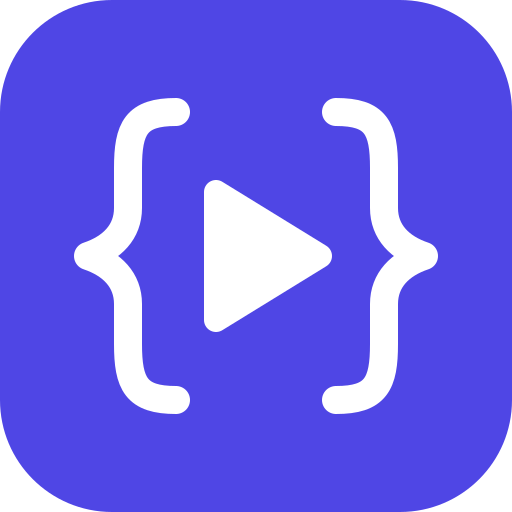
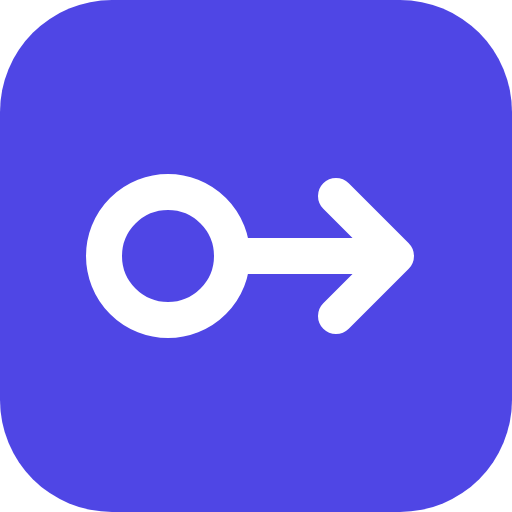
Nueva marca: Primer Commit
- El sitio pasa a llamarse Primer Commit, con el lema «Tu carrera tech
  empieza aquí». El nombre sale siempre de siteConfig.
- Nuevo logotipo: un nodo de commit del que solo sale una línea hacia
  delante (el primer commit no tiene nada detrás). Se regeneran el
  favicon, los iconos de la app y la imagen Open Graph.
- Títulos, descripciones, manifest y textos actualizados.
- La sesión se guarda como primercommit.session.

Claude-Session: https://claude.ai/code/session_01GvWBAHTqA9EsmEeJLtWEVq

Changed region(s): [[0.125, 0.1875, 0.875, 0.8125], [0.2188, 0.4688, 0.25, 0.5312]]

diff --git a/index.html b/index.html
@@ -4,13 +4,13 @@
     <meta charset="UTF-8" />
     <meta name="viewport" content="width=device-width, initial-scale=1.0" />
     <meta name="theme-color" content="#4f46e5" />
-    <title>StartDev | Comunidad tech para juniors</title>
-    <meta data-seo-default name="description" content="Noticias tech, ofertas de empleo junior, foro y testimonios en español. StartDev es la comunidad para quienes empiezan en tecnología." />
+    <title>Primer Commit | Tu carrera tech empieza aquí</title>
+    <meta data-seo-default name="description" content="Primer Commit es la comunidad tech en español para quienes empiezan: noticias, ofertas de empleo junior y prácticas, foro y testimonios." />
     <link data-seo-default rel="canonical" href="%SITE_URL%/" />
     <meta data-seo-default property="og:type" content="website" />
-    <meta data-seo-default property="og:site_name" content="StartDev" />
+    <meta data-seo-default property="og:site_name" content="Primer Commit" />
     <meta data-seo-default property="og:locale" content="es_ES" />
-    <meta data-seo-default property="og:title" content="StartDev | Comunidad tech para juniors" />
+    <meta data-seo-default property="og:title" content="Primer Commit | Tu carrera tech empieza aquí" />
     <meta data-seo-default property="og:description" content="Noticias tech, ofertas de empleo junior, foro y testimonios en español." />
     <meta data-seo-default property="og:url" content="%SITE_URL%/" />
     <meta data-seo-default property="og:image" content="%SITE_URL%/og-default.png" />
@@ -22,7 +22,7 @@
   </head>
   <body>
     <div id="root"></div>
-    <noscript>StartDev necesita JavaScript para funcionar. Actívalo en tu navegador para continuar.</noscript>
+    <noscript>Primer Commit necesita JavaScript para funcionar. Actívalo en tu navegador para continuar.</noscript>
     <script type="module" src="/src/main.jsx"></script>
   </body>
 </html>

diff --git a/src/features/admin/components/AdminLayout.jsx b/src/features/admin/components/AdminLayout.jsx
@@ -10,6 +10,7 @@ import { paths } from '@/shared/config/paths'
 import { useDismiss } from '@/shared/hooks/useDismiss'
 import { useToast } from '@/shared/hooks/useToast'
 import AdminNav from './AdminNav'
+import { siteConfig } from '@/shared/config/site'
 
 function AccountBlock() {
   const { user, logout } = useAuth()
@@ -60,7 +61,7 @@ export default function AdminLayout() {
 
       <aside className="hidden border-r border-slate-200 bg-white lg:block">
         <div className="sticky top-0 flex h-dvh flex-col gap-6 overflow-y-auto p-4">
-          <Link to={paths.admin} aria-label="Panel de administración de StartDev">
+          <Link to={paths.admin} aria-label={`Panel de administración de ${siteConfig.name}`}>
             <Logo />
           </Link>
           <div className="flex-1">
@@ -73,7 +74,7 @@ export default function AdminLayout() {
       <div className="min-w-0">
         <div ref={barRef} className="sticky top-0 z-40 border-b border-slate-200 bg-white lg:hidden">
           <div className="page-container flex h-16 items-center justify-between">
-            <Link to={paths.admin} aria-label="Panel de administración de StartDev">
+            <Link to={paths.admin} aria-label={`Panel de administración de ${siteConfig.name}`}>
               <Logo />
             </Link>
             <button

diff --git a/src/shared/components/Logo.jsx b/src/shared/components/Logo.jsx
@@ -13,11 +13,15 @@ export default function Logo({ showName = true, className = '' }) {
         focusable="false"
       >
         <rect width="64" height="64" rx="14" fill="#4f46e5" />
-        <g fill="none" stroke="#fff" strokeWidth="3.5" strokeLinecap="round" strokeLinejoin="round">
-          <path d="M22 14C17 14 16 16 16 21V26C16 29 14 31 11 32C14 33 16 35 16 38V43C16 48 17 50 22 50" />
-          <path d="M42 14C47 14 48 16 48 21V26C48 29 50 31 53 32C50 33 48 35 48 38V43C48 48 47 50 42 50" />
-        </g>
-        <path d="M27 24L40 32L27 40Z" fill="#fff" stroke="#fff" strokeWidth="3" strokeLinejoin="round" />
+        <circle cx="21" cy="32" r="8" fill="none" stroke="#fff" strokeWidth="4.5" />
+        <path
+          d="M29 32H49M42 24.5 49.5 32 42 39.5"
+          fill="none"
+          stroke="#fff"
+          strokeWidth="4.5"
+          strokeLinecap="round"
+          strokeLinejoin="round"
+        />
       </svg>
       {showName && <span className="text-xl font-extrabold tracking-tight text-ink">{siteConfig.name}</span>}
     </span>

diff --git a/src/features/home/components/HeroSection.jsx b/src/features/home/components/HeroSection.jsx
@@ -2,6 +2,7 @@ import { useAuth } from '@/features/auth/hooks/useAuth'
 import ButtonLink from '@/shared/components/ButtonLink'
 import Icon from '@/shared/components/Icon'
 import { paths } from '@/shared/config/paths'
+import { siteConfig } from '@/shared/config/site'
 
 const HIGHLIGHTS = [
   { icon: 'newspaper', title: 'Noticias sin ruido', text: 'Lo que pasa en tech, explicado para quien empieza.' },
@@ -21,7 +22,7 @@ export default function HeroSection() {
             Tu primer paso en tecnología no tiene que darse en solitario
           </h1>
           <p className="mt-5 max-w-xl text-lg text-brand-100">
-            StartDev reúne noticias, ofertas de empleo junior, un foro activo y testimonios reales para quienes
+            {siteConfig.name} reúne noticias, ofertas de empleo junior, un foro activo y testimonios reales para quienes
             empiezan su carrera como developers.
           </p>
           <div className="mt-8 flex flex-col gap-3 sm:flex-row">

diff --git a/src/features/auth/pages/RegisterPage.jsx b/src/features/auth/pages/RegisterPage.jsx
@@ -6,6 +6,7 @@ import { safeRedirect } from '@/shared/utils/url'
 import AuthCard from '../components/AuthCard'
 import RegisterForm from '../components/RegisterForm'
 import { useAuth } from '../hooks/useAuth'
+import { siteConfig } from '@/shared/config/site'
 
 export default function RegisterPage() {
   const { isAuthenticated, loading } = useAuth()
@@ -17,7 +18,7 @@ export default function RegisterPage() {
 
   return (
     <>
-      <Seo title="Crear cuenta" description="Crea tu cuenta gratuita en StartDev." path={paths.register} robots="noindex,nofollow" />
+      <Seo title="Crear cuenta" description={`Crea tu cuenta gratuita en ${siteConfig.name}.`} path={paths.register} robots="noindex,nofollow" />
       <AuthCard
         title="Crear cuenta"
         subtitle="Únete a la comunidad: participa en el foro y cuéntanos tu experiencia."

diff --git a/src/features/auth/pages/LoginPage.jsx b/src/features/auth/pages/LoginPage.jsx
@@ -6,6 +6,7 @@ import { safeRedirect } from '@/shared/utils/url'
 import AuthCard from '../components/AuthCard'
 import LoginForm from '../components/LoginForm'
 import { useAuth } from '../hooks/useAuth'
+import { siteConfig } from '@/shared/config/site'
 
 export default function LoginPage() {
   const { isAuthenticated, loading } = useAuth()
@@ -17,7 +18,7 @@ export default function LoginPage() {
 
   return (
     <>
-      <Seo title="Iniciar sesión" description="Accede a tu cuenta de StartDev." path={paths.login} robots="noindex,nofollow" />
+      <Seo title="Iniciar sesión" description={`Accede a tu cuenta de ${siteConfig.name}.`} path={paths.login} robots="noindex,nofollow" />
       <AuthCard
         title="Iniciar sesión"
         subtitle="Accede para participar en el foro y compartir tu testimonio."

diff --git a/src/shared/config/site.js b/src/shared/config/site.js
@@ -1,14 +1,14 @@
 const rawUrl = import.meta.env.VITE_SITE_URL || 'http://localhost:5173'
 
 export const siteConfig = {
-  name: 'StartDev',
-  tagline: 'Comunidad tech para juniors',
+  name: 'Primer Commit',
+  tagline: 'Tu carrera tech empieza aquí',
   description:
-    'Noticias tech, ofertas de empleo junior, foro y testimonios en español. StartDev es la comunidad para quienes empiezan en tecnología.',
+    'Primer Commit es la comunidad tech en español para quienes empiezan: noticias, ofertas de empleo junior y prácticas, foro y testimonios.',
   url: rawUrl.replace(/\/+$/, ''),
   locale: 'es_ES',
   defaultImage: '/og-default.png',
-  defaultImageAlt: 'StartDev, comunidad tech para juniors',
+  defaultImageAlt: 'Primer Commit, tu carrera tech empieza aquí',
   logo: '/icon-512.png',
 }
 

diff --git a/src/app/layout/SiteHeader.jsx b/src/app/layout/SiteHeader.jsx
@@ -10,6 +10,7 @@ import { useDismiss } from '@/shared/hooks/useDismiss'
 import { useToast } from '@/shared/hooks/useToast'
 import NavItems from './NavItems'
 import UserMenu from './UserMenu'
+import { siteConfig } from '@/shared/config/site'
 
 function AuthLinks() {
   return (
@@ -47,7 +48,7 @@ export default function SiteHeader() {
   return (
     <header ref={headerRef} className="sticky top-0 z-40 border-b border-slate-200 bg-white/95 backdrop-blur">
       <div className="page-container flex h-16 items-center justify-between gap-4">
-        <Link to={paths.home} aria-label="StartDev, ir al inicio" className="rounded-control">
+        <Link to={paths.home} aria-label={`${siteConfig.name}, ir al inicio`} className="rounded-control">
           <Logo />
         </Link>
 

diff --git a/src/features/forum/pages/NewDiscussionPage.jsx b/src/features/forum/pages/NewDiscussionPage.jsx
@@ -7,6 +7,7 @@ import { useToast } from '@/shared/hooks/useToast'
 import DiscussionForm from '../components/DiscussionForm'
 import ForumRules from '../components/ForumRules'
 import { discussionService } from '../services/discussionService'
+import { siteConfig } from '@/shared/config/site'
 
 const INITIAL_VALUES = { title: '', content: '', category: 'AYUDA_TECNICA' }
 
@@ -24,7 +25,7 @@ export default function NewDiscussionPage() {
     <div className="page-container page-section">
       <Seo
         title="Nueva discusión"
-        description="Abre una discusión en el foro de StartDev."
+        description={`Abre una discusión en el foro de ${siteConfig.name}.`}
         path={paths.forumNew}
         robots="noindex,nofollow"
       />

diff --git a/src/features/testimonials/pages/TestimonialsPage.jsx b/src/features/testimonials/pages/TestimonialsPage.jsx
@@ -20,7 +20,7 @@ export default function TestimonialsPage() {
     <div className="page-container page-section">
       <Seo
         title="Testimonios de la comunidad"
-        description="Historias reales de personas que están empezando en tecnología: aprendizajes, dudas y logros compartidos por la comunidad StartDev."
+        description="Historias reales de personas que están empezando en tecnología: aprendizajes, dudas y logros compartidos por la comunidad de Primer Commit."
         path={paths.testimonials}
       />
       <Breadcrumbs items={[{ label: 'Testimonios', to: paths.testimonials }]} />

diff --git a/src/shared/api/session.js b/src/shared/api/session.js
@@ -1,4 +1,4 @@
-const STORAGE_KEY = 'startdev.session'
+const STORAGE_KEY = 'primercommit.session'
 
 const listeners = new Set()
 
